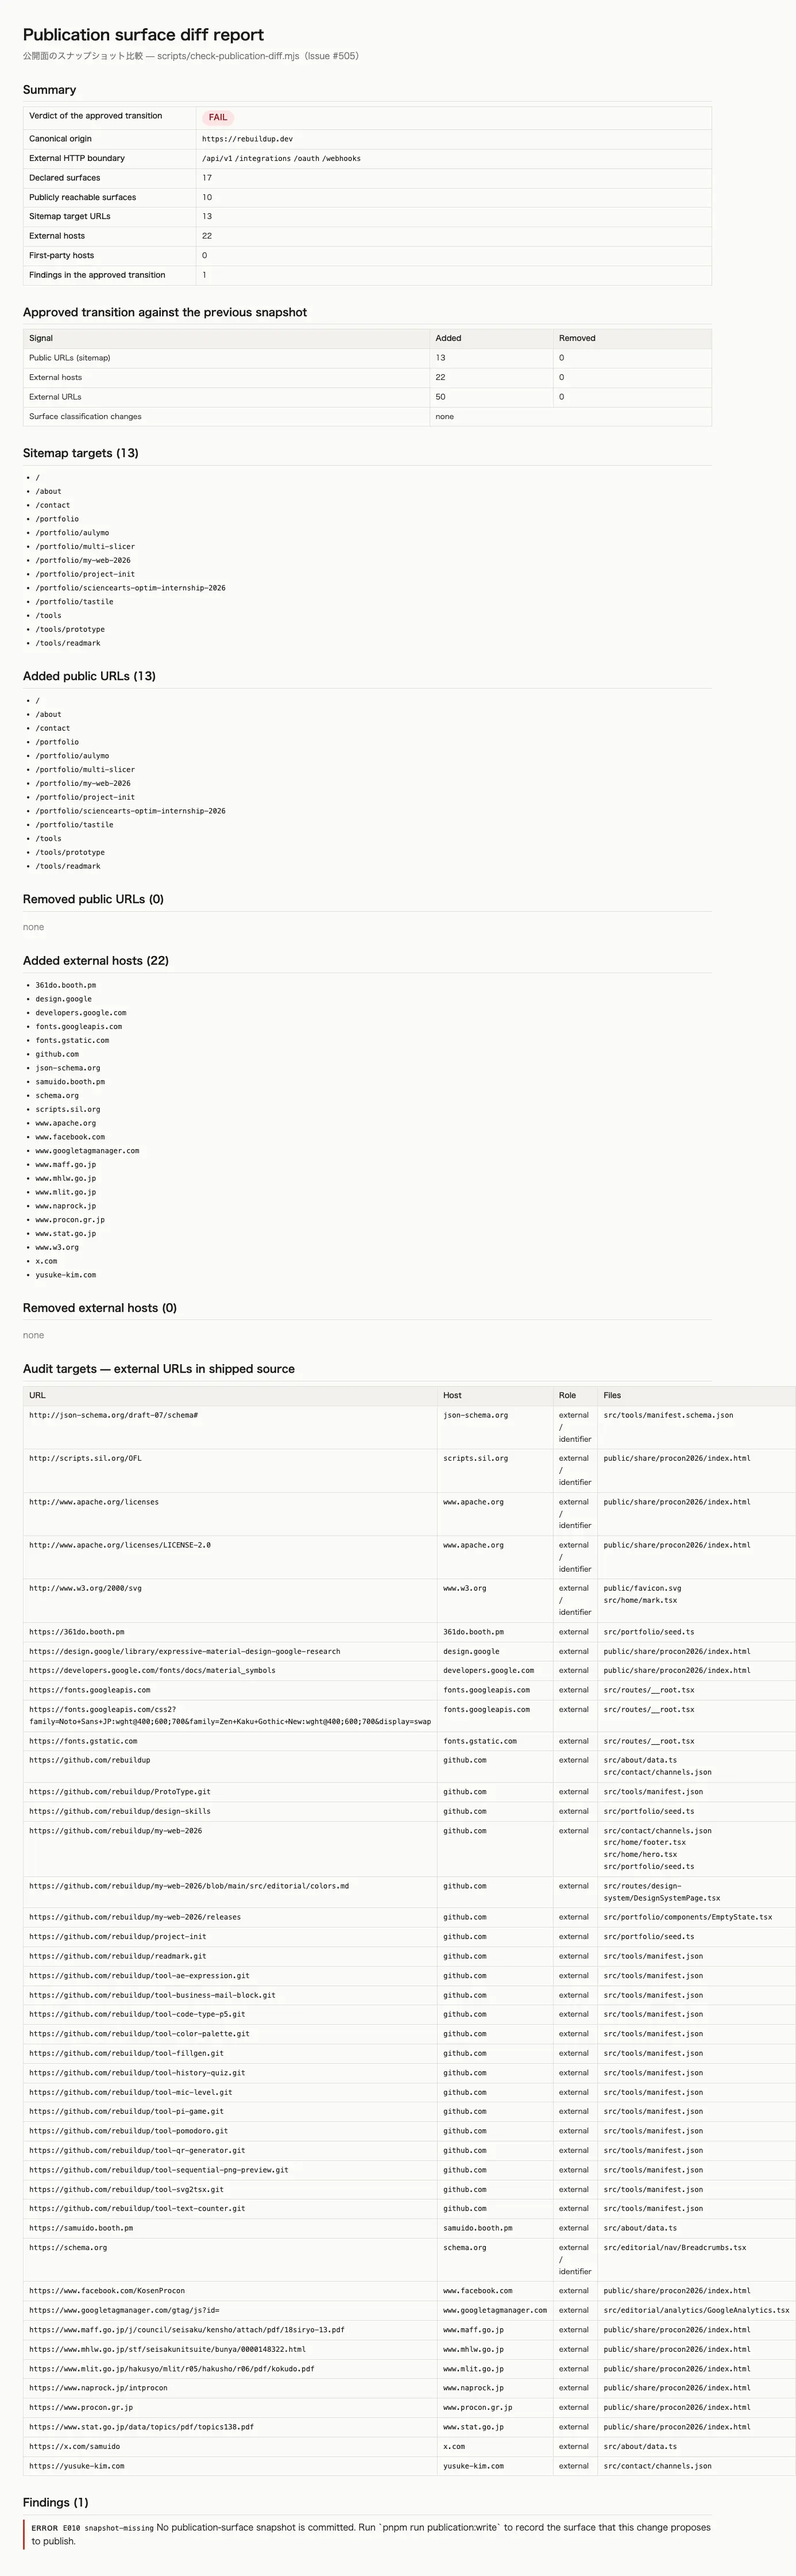
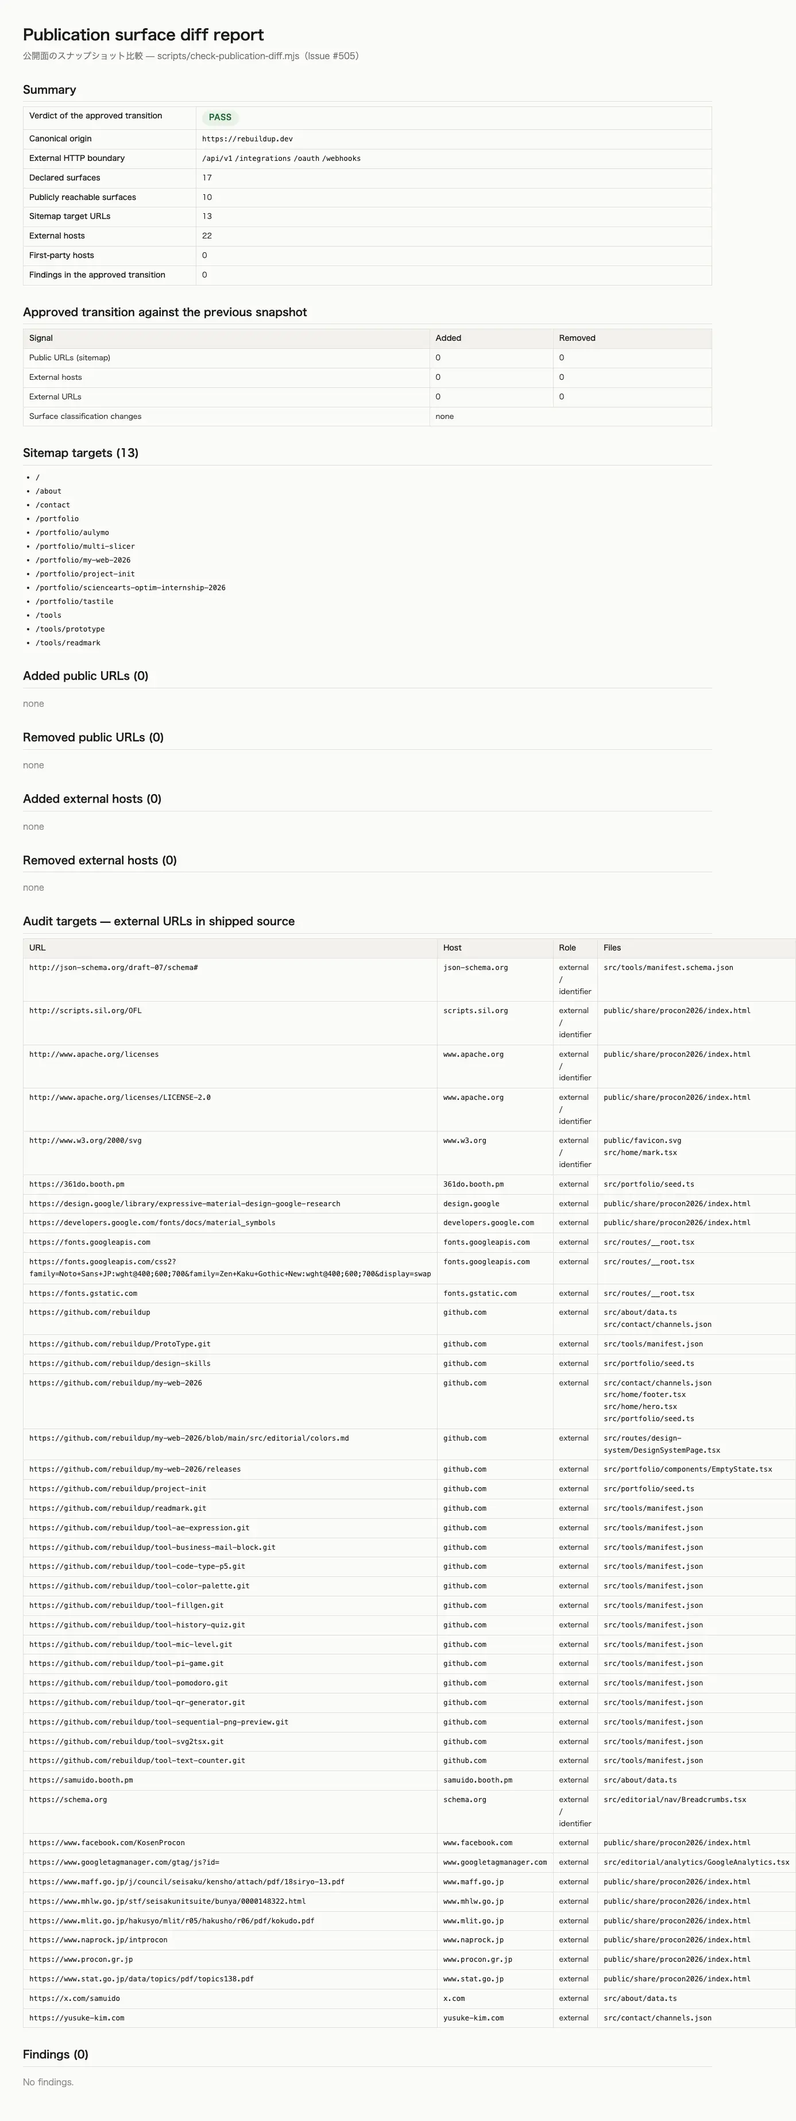
fix(ci): exclude generated publication artefacts from Biome and re-record (#505)
`format:check` reformats the generated snapshot JSON (single-element
arrays collapse), which made the byte-compare in check mode
unreachable. The tracked snapshot and report are generated artefacts,
so they join the same Biome ignore list as `styled-system/` and
`src/routeTree.gen.ts`; scripts/ and src/ stay fully linted.

Re-record the snapshot so the stored approved transition and the
report agree, and refresh the verification screenshots.

diff --git a/docs/verification/content/publication-diff-report.md b/docs/verification/content/publication-diff-report.md
@@ -14,8 +14,8 @@
 | Sitemap target URLs | 13 |
 | External hosts | 22 |
 | First-party hosts | 0 |
-| Approved transition | 1 finding(s) |
-| Verdict of the approved transition | **fail** |
+| Approved transition | no delta (first record, or unchanged surface) |
+| Verdict of the approved transition | **pass** |
 
 ## Sitemap targets (what this release publishes)
 
@@ -57,50 +57,17 @@
 
 ## Approved transition against the previous snapshot
 
-### Added public URLs (13)
+### Added public URLs (0)
 
-- `/`
-- `/about`
-- `/contact`
-- `/portfolio`
-- `/portfolio/aulymo`
-- `/portfolio/multi-slicer`
-- `/portfolio/my-web-2026`
-- `/portfolio/project-init`
-- `/portfolio/sciencearts-optim-internship-2026`
-- `/portfolio/tastile`
-- `/tools`
-- `/tools/prototype`
-- `/tools/readmark`
+- (none)
 
 ### Removed public URLs (0)
 
 - (none)
 
-### Added external hosts (22)
+### Added external hosts (0)
 
-- `361do.booth.pm`
-- `design.google`
-- `developers.google.com`
-- `fonts.googleapis.com`
-- `fonts.gstatic.com`
-- `github.com`
-- `json-schema.org`
-- `samuido.booth.pm`
-- `schema.org`
-- `scripts.sil.org`
-- `www.apache.org`
-- `www.facebook.com`
-- `www.googletagmanager.com`
-- `www.maff.go.jp`
-- `www.mhlw.go.jp`
-- `www.mlit.go.jp`
-- `www.naprock.jp`
-- `www.procon.gr.jp`
-- `www.stat.go.jp`
-- `www.w3.org`
-- `x.com`
-- `yusuke-kim.com`
+- (none)
 
 ### Removed external hosts (0)
 
@@ -160,5 +127,5 @@ other external row is a link a visitor can follow, i.e. an outbound dependency.
 
 ## Findings in the approved transition
 
-- **ERROR** `E010 snapshot-missing` No publication-surface snapshot is committed. Run `pnpm run publication:write` to record the surface that this change proposes to publish.
+_No findings._
 

diff --git a/docs/verification/content/publication-surface.md b/docs/verification/content/publication-surface.md
@@ -69,7 +69,7 @@ gate され、sitemap にも外部 host 集合にも現れません。
 
 - **フォント**: `fonts.googleapis.com`（stylesheet）、`fonts.gstatic.com`（font files）
 - **計測**: `www.googletagmanager.com`（GA4 loader, `src/editorial/analytics/GoogleAnalytics.tsx`）
-- **作者・Kickoff のプロフィール**: `github.com`, `x.com`, `samuido.booth.pm`,
+- **作者プロフィールと配布先**: `github.com`, `x.com`, `samuido.booth.pm`,
   `361do.booth.pm`, `yusuke-kim.com`（`src/contact/channels.json` は 30 日の
   freshness gate を通った channel だけを描画します）
 - **`public/share/procon2026/` の静的ページが参照する第三者の資料**:
